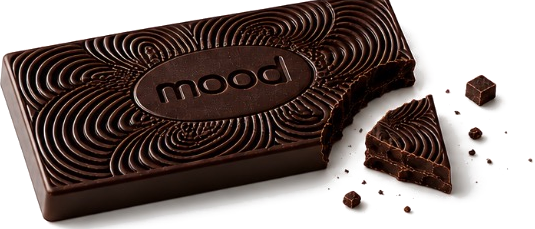
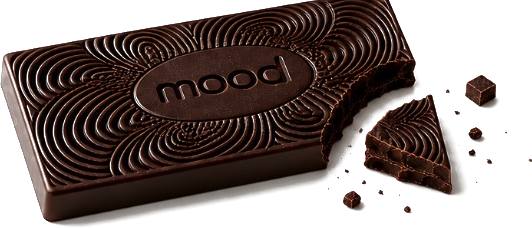
Make "The Frequency" energetic + fix cutout and ingredients
- Re-key the bar PNGs aggressively to remove the white shadow halo (clean edges)
- Correct the ingredient list to the infographic (ודיפולה · תה ירוק · קינמון ·
  ליקוריץ · גוארנה)
- Rebuild the edit for energy: beat-pulsing rings, icon flash-in + electric
  pulse, bar slam-in with land-shake, violent snap with screen-flash + impact
  shake, rapid-fire kinetic ingredients, confident brand slam. Faster ~11s cut.

Claude-Session: https://claude.ai/code/session_01KvFHxhiqqrRYk6Gqpyr2Ec

diff --git a/video/mood-energy-pulse/index.html b/video/mood-energy-pulse/index.html
@@ -11,52 +11,48 @@
       * { margin:0; padding:0; box-sizing:border-box; }
       html, body { width:1080px; height:1920px; overflow:hidden; }
       body { font-family:"Heebo", sans-serif; }
-      #root { position:relative; width:1080px; height:1920px; overflow:hidden; background:#1C120C; }
+      #root { position:relative; width:1080px; height:1920px; overflow:hidden; background:#160E08; }
 
       #field { position:absolute; inset:0; width:1080px; height:1920px; display:block; }
+      #flash { position:absolute; inset:0; background:#FFE0C0; opacity:0; pointer-events:none; mix-blend-mode:screen; }
 
       .clip { position:absolute; inset:0; direction:rtl; }
-      .mid { display:flex; flex-direction:column; justify-content:center; align-items:center; text-align:center; }
 
-      /* real assets */
-      #lightning { position:absolute; left:50%; top:760px; width:250px; height:250px; margin-left:-125px; margin-top:-125px;
-        filter:drop-shadow(0 24px 70px rgba(255,110,40,0.65)); }
+      #lightning { position:absolute; left:50%; top:740px; width:250px; height:250px; margin-left:-125px; margin-top:-125px;
+        filter:drop-shadow(0 24px 70px rgba(255,110,40,0.7)); }
       #lightning svg { width:100%; height:100%; display:block; }
-      .powder { position:absolute; left:50%; top:760px; width:280px; margin-left:-140px; margin-top:-100px; }
-      #bar { position:absolute; left:50%; top:760px; width:560px; margin-left:-280px; margin-top:-175px;
-        filter:drop-shadow(0 40px 70px rgba(20,10,4,0.6)); }
-      #barSnap { position:absolute; left:50%; top:760px; width:560px; margin-left:-280px; margin-top:-120px;
-        filter:drop-shadow(0 40px 70px rgba(20,10,4,0.6)); }
 
-      /* text */
-      .head { position:absolute; left:0; right:0; top:1180px; text-align:center; direction:rtl; }
-      .line { font-weight:900; font-size:118px; line-height:1.06; color:#F6ECDE; text-shadow:0 6px 30px rgba(0,0,0,0.45); }
+      #bar, #barSnap { position:absolute; left:50%; top:760px; width:600px; margin-left:-300px;
+        filter:drop-shadow(0 40px 70px rgba(10,6,2,0.7)); }
+      #bar { margin-top:-186px; } #barSnap { margin-top:-128px; }
+
+      .head { position:absolute; left:0; right:0; top:1170px; text-align:center; direction:rtl; }
+      .line { font-weight:900; font-size:128px; line-height:1.05; color:#F6ECDE; text-shadow:0 8px 40px rgba(0,0,0,0.5); }
       .accent { color:#FF7A3C; }
       .mwm { color:#FF7A3C; font-weight:900; }
 
-      /* brand lockup */
+      #ings { position:absolute; left:0; right:0; top:900px; text-align:center; direction:rtl; }
+      .ing { display:inline-block; font-weight:900; font-size:66px; color:#F6ECDE; margin:0 4px; }
+      .ing.o { color:#FF7A3C; }
+
       #brand { position:absolute; inset:0; display:flex; flex-direction:column; justify-content:center; align-items:center; text-align:center; direction:rtl; }
-      .wordmark { display:inline-flex; align-items:center; font-weight:900; color:#1A1512; line-height:1; direction:ltr; font-size:120px; }
-      .oo { display:inline-block; width:100px; height:100px; margin:0 6px; border-radius:50%; background:#FF6B35; position:relative; }
+      .wordmark { display:inline-flex; align-items:center; font-weight:900; color:#1A1512; line-height:1; direction:ltr; font-size:126px; }
+      .oo { display:inline-block; width:106px; height:106px; margin:0 6px; border-radius:50%; background:#FF6B35; position:relative; }
       .oo::after { content:""; position:absolute; left:50%; top:50%; width:26%; height:26%; background:#F3EAD9; border-radius:50%; transform:translate(-50%,-50%); }
-      .energy { font-weight:900; font-size:150px; letter-spacing:16px; color:#E4551F; direction:ltr; margin-top:14px; text-shadow:0 10px 30px rgba(228,85,31,0.3); }
-      .tag { font-weight:800; font-size:44px; color:#6B5044; letter-spacing:4px; margin-top:14px; }
-      .ings { font-weight:800; font-size:40px; color:#4A382C; margin-top:24px; }
-      .ing { display:inline-block; } .sep { color:#E4551F; margin:0 14px; display:inline-block; }
-      .kick { font-weight:800; font-size:40px; letter-spacing:5px; color:#B24A20; margin-top:30px; }
-      .cta { font-weight:800; font-size:46px; color:#FFF; letter-spacing:3px; background:#E4551F; padding:16px 44px; border-radius:100px; margin-top:18px; box-shadow:0 18px 44px rgba(228,85,31,0.4); }
-      .stack>*+*{margin-top:0;}
+      .energy { font-weight:900; font-size:158px; letter-spacing:16px; color:#E4551F; direction:ltr; margin-top:16px; text-shadow:0 10px 30px rgba(228,85,31,0.3); }
+      .kick { font-weight:800; font-size:42px; letter-spacing:5px; color:#B24A20; margin-top:34px; }
+      .cta { font-weight:800; font-size:48px; color:#FFF; letter-spacing:3px; background:#E4551F; padding:16px 46px; border-radius:100px; margin-top:20px; box-shadow:0 18px 44px rgba(228,85,31,0.45); }
     </style>
   </head>
   <body>
-    <div id="root" data-composition-id="main" data-start="0" data-width="1080" data-height="1920" data-duration="13">
+    <div id="root" data-composition-id="main" data-start="0" data-width="1080" data-height="1920" data-duration="11">
 
-      <section id="bg" class="clip" data-start="0" data-duration="13" data-track-index="0">
+      <section id="bg" class="clip" data-start="0" data-duration="11" data-track-index="0">
         <canvas id="field" width="1080" height="1920"></canvas>
+        <div id="flash"></div>
       </section>
 
-      <!-- CORE: lightning ignites + powder burst -->
-      <section id="core" class="clip" data-start="0" data-duration="5.6" data-track-index="1">
+      <section id="core" class="clip" data-start="0" data-duration="3.0" data-track-index="1">
         <div id="lightning">
           <svg viewBox="0 0 100 100">
             <circle cx="50" cy="50" r="49" fill="#FF6B35"/>
@@ -65,27 +61,29 @@
         </div>
       </section>
 
-      <!-- PRODUCT: real bar radiates, then snaps -->
-      <section id="product" class="clip" data-start="4.8" data-duration="6.2" data-track-index="2">
+      <section id="product" class="clip" data-start="2.6" data-duration="4.4" data-track-index="2">
         <img id="bar" src="assets/img/bar_pan.png" alt="">
         <img id="barSnap" src="assets/img/bar_snap.png" alt="">
       </section>
 
-      <!-- TEXT beats -->
-      <section id="txt" class="clip" data-start="5.4" data-duration="5.4" data-track-index="3">
+      <section id="txt" class="clip" data-start="3.0" data-duration="4.0" data-track-index="3">
         <div class="head">
           <div class="line" id="t1">ביס אחד.</div>
           <div class="line" id="t2">וזה ה-<span dir="ltr" class="mwm">mood</span> שלך משתנה.</div>
         </div>
       </section>
 
-      <!-- BRAND lockup -->
-      <section id="brandClip" class="clip" data-start="10.6" data-duration="2.4" data-track-index="4">
+      <section id="ingClip" class="clip" data-start="6.6" data-duration="2.2" data-track-index="4">
+        <div id="ings">
+          <span class="ing o" id="i1">ודיפולה</span><span class="ing" id="i2">תה ירוק</span><span class="ing o" id="i3">קינמון</span><span class="ing" id="i4">ליקוריץ</span><span class="ing o" id="i5">גוארנה</span>
+        </div>
+      </section>
+
+      <section id="brandClip" class="clip" data-start="8.6" data-duration="2.4" data-track-index="5">
         <div id="brand">
-          <div class="stack" style="display:flex;flex-direction:column;align-items:center">
+          <div style="display:flex;flex-direction:column;align-items:center">
             <div class="wordmark" id="wm"><span>m</span><span>o</span><span class="oo"></span><span>d</span></div>
             <div class="energy" id="en">ENERGY</div>
-            <div class="ings" id="ings"><span class="ing">תה ירוק</span><span class="sep">·</span><span class="ing">קינמון</span><span class="sep">·</span><span class="ing">גוארנה</span><span class="sep">·</span><span class="ing">ליקוריץ</span></div>
             <div class="kick" id="kick">בקרוב</div>
             <div class="cta" id="cta">בלינק בביו</div>
           </div>
@@ -94,104 +92,102 @@
     </div>
 
     <script>
-      /* ---------------- generative energy-frequency field ---------------- */
+      /* ---------------- energy field with a BEAT ---------------- */
       const cv=document.getElementById("field"), ctx=cv.getContext("2d"), W=1080, H=1920;
-      const CX=540, CY=760;
-      function lerp(a,b,t){return a+(b-a)*t;}
-      function draw(t, energy, warm, shock){
-        // background: deep mocha -> warm cream (warm 0..1)
-        const g=ctx.createLinearGradient(0,0,0,H);
-        g.addColorStop(0, `rgb(${lerp(40,245,warm)|0},${lerp(26,235,warm)|0},${lerp(18,220,warm)|0})`);
-        g.addColorStop(1, `rgb(${lerp(20,236,warm)|0},${lerp(12,216,warm)|0},${lerp(8,196,warm)|0})`);
-        ctx.fillStyle=g; ctx.fillRect(0,0,W,H);
+      const CX=540, CY=760, BPS=124/60;
+      const L=(a,b,t)=>a+(b-a)*t;
+      function draw(t, energy, warm){
+        const ph=(t*BPS)%1, beat=Math.pow(1-ph,3);   // spike on each beat
+        const bg=ctx.createLinearGradient(0,0,0,H);
+        bg.addColorStop(0,`rgb(${L(36,245,warm)|0},${L(22,235,warm)|0},${L(14,220,warm)|0})`);
+        bg.addColorStop(1,`rgb(${L(18,236,warm)|0},${L(10,216,warm)|0},${L(6,196,warm)|0})`);
+        ctx.fillStyle=bg; ctx.fillRect(0,0,W,H);
 
         ctx.globalCompositeOperation="lighter";
-        // central core glow
-        const cr=260+energy*260+Math.sin(t*3)*18;
+        const em=(1-warm*0.6);
+        // core glow, pumped by the beat
+        const cr=230+energy*220+beat*120;
         const rg=ctx.createRadialGradient(CX,CY,0,CX,CY,cr);
-        rg.addColorStop(0,`rgba(255,150,70,${(0.30+0.4*energy)*(1-warm*0.7)})`);
-        rg.addColorStop(0.5,`rgba(255,110,40,${0.10*(1-warm*0.6)})`);
+        rg.addColorStop(0,`rgba(255,150,70,${(0.28+0.4*energy+beat*0.28)*em})`);
+        rg.addColorStop(0.5,`rgba(255,110,40,${(0.08+beat*0.1)*em})`);
         rg.addColorStop(1,"rgba(255,110,40,0)");
         ctx.fillStyle=rg; ctx.fillRect(0,0,W,H);
 
-        // radiating concentric rings (the frequency)
-        const interval=0.5, speed=540, life=3.4, gain=(0.35+0.65*energy)*(1-warm*0.55);
-        const nmax=Math.floor(t/interval);
-        for(let n=0;n<=nmax;n++){
+        // fast radiating rings
+        const interval=0.26, speed=760, life=2.1, gain=(0.4+0.6*energy)*em*(1+beat*0.7);
+        for(let n=Math.floor(t/interval);n>=0;n--){
           const age=t-n*interval; if(age<0||age>life) continue;
-          const r=age*speed; const a=(1-age/life)*0.42*gain;
-          if(a<=0.003) continue;
+          const r=age*speed, a=(1-age/life)*0.5*gain; if(a<0.004) continue;
           ctx.beginPath(); ctx.arc(CX,CY,r,0,6.2832);
-          ctx.strokeStyle=`rgba(255,${140-30*(age/life)|0},70,${a})`;
-          ctx.lineWidth=2+age*2.2; ctx.stroke();
-        }
-        // snap shockwave (one big fast bright ring)
-        if(shock>0){
-          const sr=shock*1750; const sa=(1-shock)*0.85;
-          ctx.beginPath(); ctx.arc(CX,CY,sr,0,6.2832);
-          ctx.strokeStyle=`rgba(255,180,110,${sa})`; ctx.lineWidth=10*(1-shock)+3; ctx.stroke();
-          const sr2=shock*1250;
-          ctx.beginPath(); ctx.arc(CX,CY,sr2,0,6.2832);
-          ctx.strokeStyle=`rgba(255,140,70,${sa*0.7})`; ctx.lineWidth=6*(1-shock)+2; ctx.stroke();
+          ctx.strokeStyle=`rgba(255,${150-40*(age/life)|0},70,${a})`;
+          ctx.lineWidth=2+age*2.4; ctx.stroke();
         }
         ctx.globalCompositeOperation="source-over";
       }
 
       window.__timelines = window.__timelines || {};
       const tl = gsap.timeline({ paused:true });
-      const OUT="power3.out";
+      const PUNCH="back.out(2.2)";
 
       const fs={t:0};
-      tl.to(fs,{t:13,duration:13,ease:"none",onUpdate:()=>{
+      tl.to(fs,{t:11,duration:11,ease:"none",onUpdate:()=>{
         const t=fs.t;
-        const energy=Math.min(1,Math.max(0,(t-0.4)/3.2));               // build 0->1
-        const warm=Math.min(1,Math.max(0,(t-9.6)/1.6));                 // mocha -> cream near the end
-        let shock=0; const s=t-8.35; if(s>0&&s<1.05) shock=s/1.05;      // snap shockwave
-        draw(t,energy,warm,shock);
+        const energy=Math.min(1,Math.max(0,(t-0.2)/1.4));
+        const warm=Math.min(1,Math.max(0,(t-8.0)/1.4));
+        draw(t,energy,warm);
       }},0);
-      draw(0,0,0,0);
+      draw(0,0,0);
 
-      /* ---- CORE: lightning + powders ---- */
-      // spark -> lightning ignites
-      tl.fromTo("#lightning",{scale:0.15,autoAlpha:0,transformOrigin:"50% 50%"},
-        {scale:1,autoAlpha:1,duration:0.7,ease:"back.out(1.8)"},2.1);
-      // a subtle held pulse on the bolt while the field radiates (performs, not idle)
-      tl.to("#lightning",{scale:1.07,duration:1.4,ease:"sine.inOut"},2.9);
-      // lightning recedes as the product rises
-      tl.to("#lightning",{scale:0.7,y:"-=40",autoAlpha:0,duration:0.7,ease:"power2.in"},4.9);
-      tl.set("#core",{autoAlpha:0},5.6);
+      // white flash helper on impacts
+      const flash=(at,peak=0.5)=>{ tl.fromTo("#flash",{opacity:peak},{opacity:0,duration:0.32,ease:"power2.out"},at); };
 
-      /* ---- PRODUCT: bar rises, radiates, snaps ---- */
+      /* ---- CORE icon: flashes in, pulses electric, exits ---- */
+      tl.fromTo("#lightning",{scale:0.2,autoAlpha:0,transformOrigin:"50% 50%"},{scale:1,autoAlpha:1,duration:0.34,ease:PUNCH},0.35);
+      flash(0.35,0.55);
+      // electric double-pulse on the beat
+      tl.to("#lightning",{keyframes:{scale:[1,1.16,1,1.12,1]},duration:1.0,ease:"none"},0.9);
+      // exit fast as the bar slams
+      tl.to("#lightning",{scale:1.5,autoAlpha:0,duration:0.28,ease:"power3.in"},2.55);
+      tl.set("#core",{autoAlpha:0},3.0);
+
+      /* ---- PRODUCT: bar SLAMS in, punch-zoom, violent SNAP ---- */
       tl.set("#barSnap",{autoAlpha:0},0);
-      tl.fromTo("#bar",{scale:0.6,autoAlpha:0,transformOrigin:"50% 50%"},
-        {scale:1,autoAlpha:1,duration:0.9,ease:"power4.out"},5.0);
-      // gentle breathing radiate (performs, subtle)
-      tl.to("#bar",{scale:1.05,duration:1.6,ease:"sine.inOut"},6.2);
-      // THE SNAP: whole bar -> snapped bar, with a jolt
-      tl.to("#bar",{autoAlpha:0,duration:0.12},8.35);
-      tl.fromTo("#barSnap",{scale:1.14,autoAlpha:0,rotation:-2},
-        {scale:1,autoAlpha:1,rotation:0,duration:0.6,ease:"power4.out"},8.35);
-      tl.fromTo("#product",{x:-14},{x:0,duration:0.4,ease:"power3.out"},8.4);
-      tl.to("#product",{autoAlpha:0,duration:0.5,ease:"power2.in"},10.3);
-      tl.set("#product",{autoAlpha:0},10.8);
+      tl.fromTo("#bar",{scale:1.9,rotation:-10,autoAlpha:0,transformOrigin:"50% 50%"},
+        {scale:1,rotation:0,autoAlpha:1,duration:0.42,ease:"power4.out"},2.72);
+      flash(2.72,0.6);
+      tl.to("#bar",{keyframes:{x:[0,-16,12,-6,0]},duration:0.3,ease:"none"},2.74); // land shake
+      tl.to("#bar",{scale:1.07,duration:1.4,ease:"power1.inOut"},3.3);              // slow push-in energy
+      // THE SNAP
+      tl.to("#bar",{autoAlpha:0,duration:0.08},4.9);
+      tl.fromTo("#barSnap",{scale:1.32,rotation:4,autoAlpha:0,transformOrigin:"50% 50%"},
+        {scale:1,rotation:0,autoAlpha:1,duration:0.4,ease:"power4.out"},4.9);
+      flash(4.9,0.8);
+      tl.to("#barSnap",{keyframes:{x:[0,-22,16,-9,0]},duration:0.34,ease:"none"},4.92); // impact shake
+      tl.to("#product",{autoAlpha:0,duration:0.35,ease:"power2.in"},6.5);
+      tl.set("#product",{autoAlpha:0},7.0);
 
-      /* ---- TEXT ---- */
+      /* ---- TEXT: kinetic punch ---- */
       tl.set("#t2",{autoAlpha:0},0);
-      tl.fromTo("#t1",{y:50,autoAlpha:0},{y:0,autoAlpha:1,duration:0.5,ease:OUT},5.9);
-      tl.to("#t1",{y:-40,autoAlpha:0,duration:0.45,ease:"power2.in"},7.9);
-      tl.set("#t1",{autoAlpha:0},8.35);
-      tl.fromTo("#t2",{y:50,autoAlpha:0},{y:0,autoAlpha:1,duration:0.55,ease:OUT},8.7);
-      tl.to("#t2",{autoAlpha:0,duration:0.45,ease:"power2.in"},10.3);
-      tl.set("#txt",{autoAlpha:0},10.8);
+      tl.fromTo("#t1",{scale:1.5,autoAlpha:0,transformOrigin:"50% 50%"},{scale:1,autoAlpha:1,duration:0.32,ease:PUNCH},3.25);
+      tl.to("#t1",{scale:0.7,autoAlpha:0,duration:0.28,ease:"power3.in"},4.7);
+      tl.set("#t1",{autoAlpha:0},4.9);
+      tl.fromTo("#t2",{scale:1.4,autoAlpha:0,transformOrigin:"50% 50%"},{scale:1,autoAlpha:1,duration:0.36,ease:PUNCH},5.05);
+      tl.to("#t2",{autoAlpha:0,duration:0.3,ease:"power2.in"},6.5);
+      tl.set("#txt",{autoAlpha:0},7.0);
 
-      /* ---- BRAND ---- */
-      tl.fromTo("#wm",{scale:0.7,autoAlpha:0,transformOrigin:"50% 50%"},{scale:1,autoAlpha:1,duration:0.6,ease:"power4.out"},10.8);
-      tl.fromTo("#wm .oo",{scale:0.2},{scale:1,duration:0.5,ease:"back.out(2.2)"},11.05);
-      tl.fromTo("#en",{y:26,autoAlpha:0},{y:0,autoAlpha:1,duration:0.45,ease:OUT},11.15);
-      tl.fromTo("#ings .ing",{y:22,autoAlpha:0},{y:0,autoAlpha:1,duration:0.4,ease:OUT,stagger:0.1},11.5);
-      tl.fromTo("#ings .sep",{autoAlpha:0},{autoAlpha:1,duration:0.3,stagger:0.1},11.6);
-      tl.fromTo("#kick",{y:20,autoAlpha:0},{y:0,autoAlpha:1,duration:0.4,ease:OUT},11.9);
-      tl.fromTo("#cta",{scale:0.7,autoAlpha:0},{scale:1,autoAlpha:1,duration:0.5,ease:"back.out(2)"},12.15);
+      /* ---- INGREDIENTS: rapid-fire ---- */
+      tl.fromTo("#ings .ing",{scale:1.6,y:30,autoAlpha:0,transformOrigin:"50% 50%"},
+        {scale:1,y:0,autoAlpha:1,duration:0.3,ease:PUNCH,stagger:0.09},6.75);
+      tl.to("#ings .ing",{autoAlpha:0,duration:0.3,ease:"power2.in",stagger:0.03},8.4);
+      tl.set("#ingClip",{autoAlpha:0},8.6);
+
+      /* ---- BRAND: confident slam ---- */
+      tl.fromTo("#wm",{scale:0.6,autoAlpha:0,transformOrigin:"50% 50%"},{scale:1,autoAlpha:1,duration:0.42,ease:PUNCH},8.65);
+      flash(8.65,0.4);
+      tl.fromTo("#wm .oo",{scale:0.2},{scale:1,duration:0.4,ease:"back.out(3)"},8.85);
+      tl.fromTo("#en",{scale:1.4,autoAlpha:0,transformOrigin:"50% 50%"},{scale:1,autoAlpha:1,duration:0.36,ease:PUNCH},8.95);
+      tl.fromTo("#kick",{y:20,autoAlpha:0},{y:0,autoAlpha:1,duration:0.34,ease:"power3.out"},9.35);
+      tl.fromTo("#cta",{scale:0.6,autoAlpha:0,transformOrigin:"50% 50%"},{scale:1,autoAlpha:1,duration:0.42,ease:PUNCH},9.6);
 
       window.__timelines["main"]=tl;
     </script>
